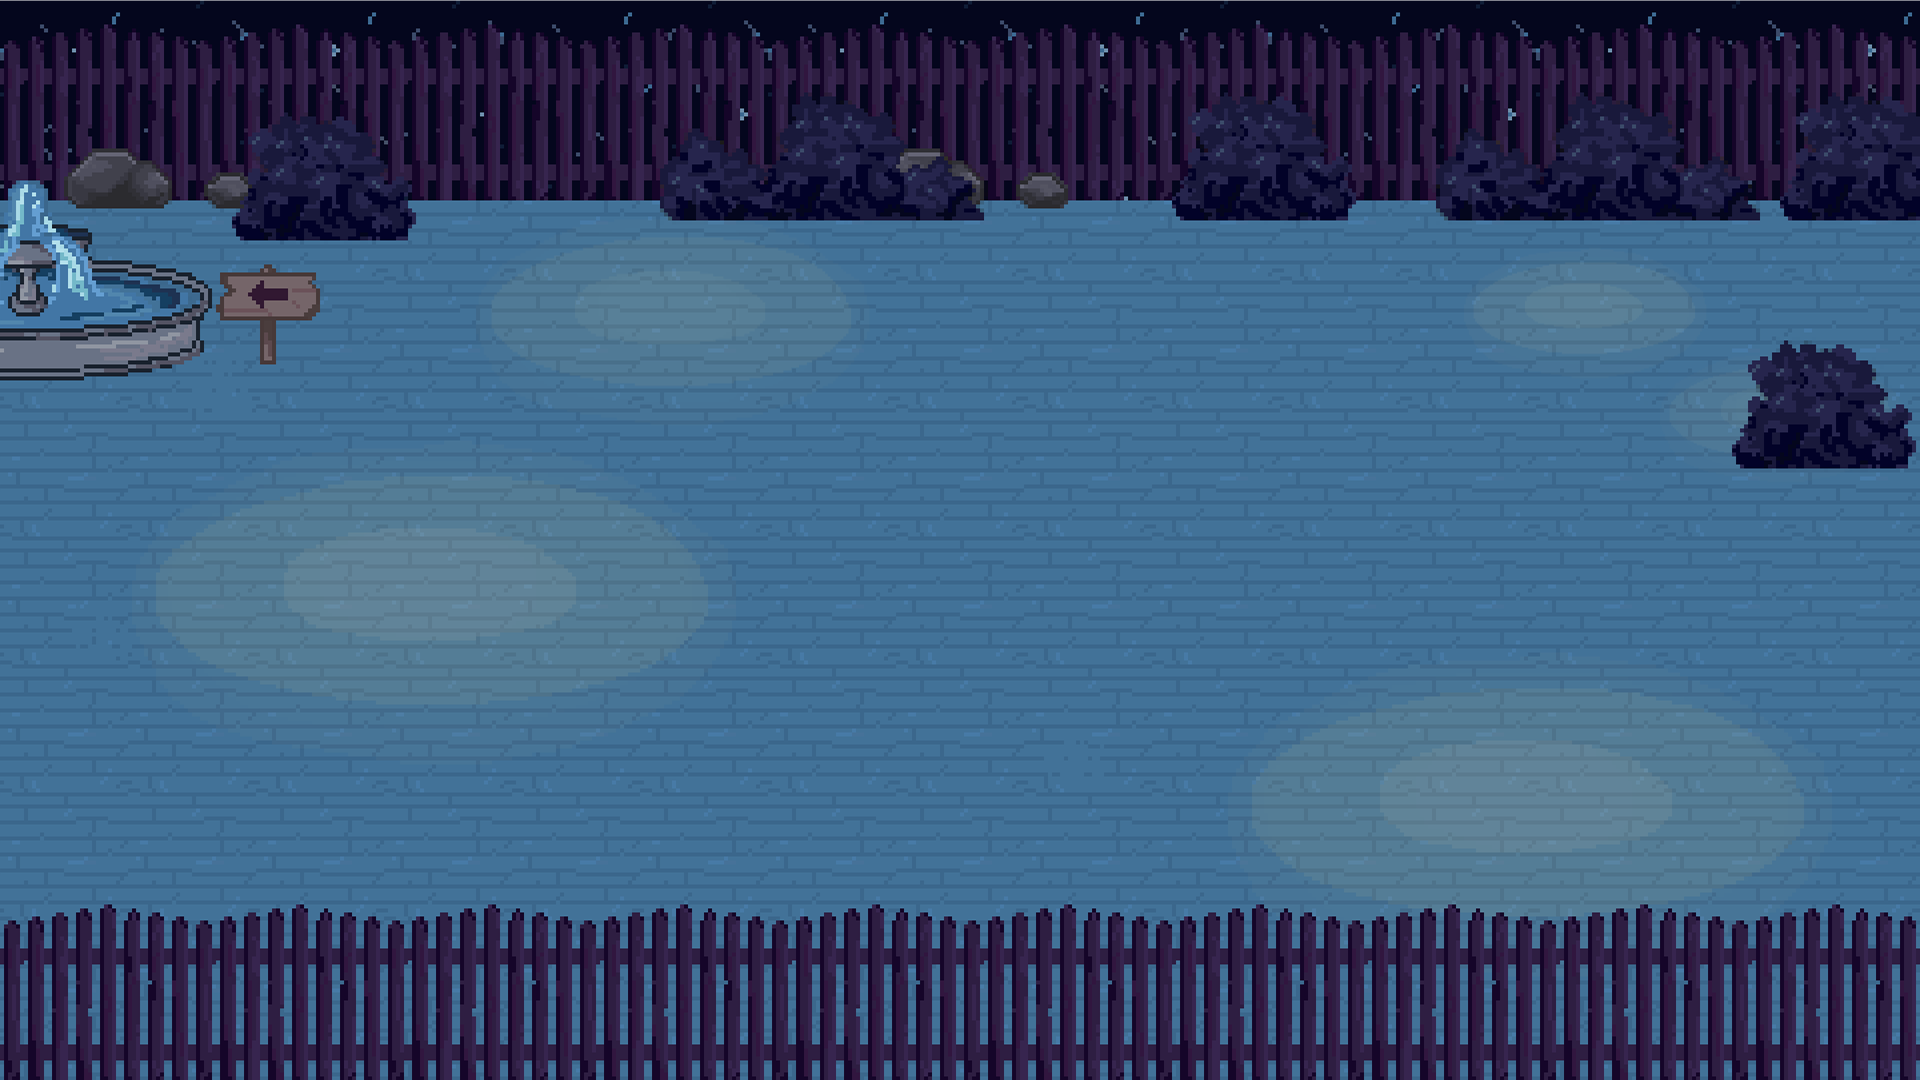
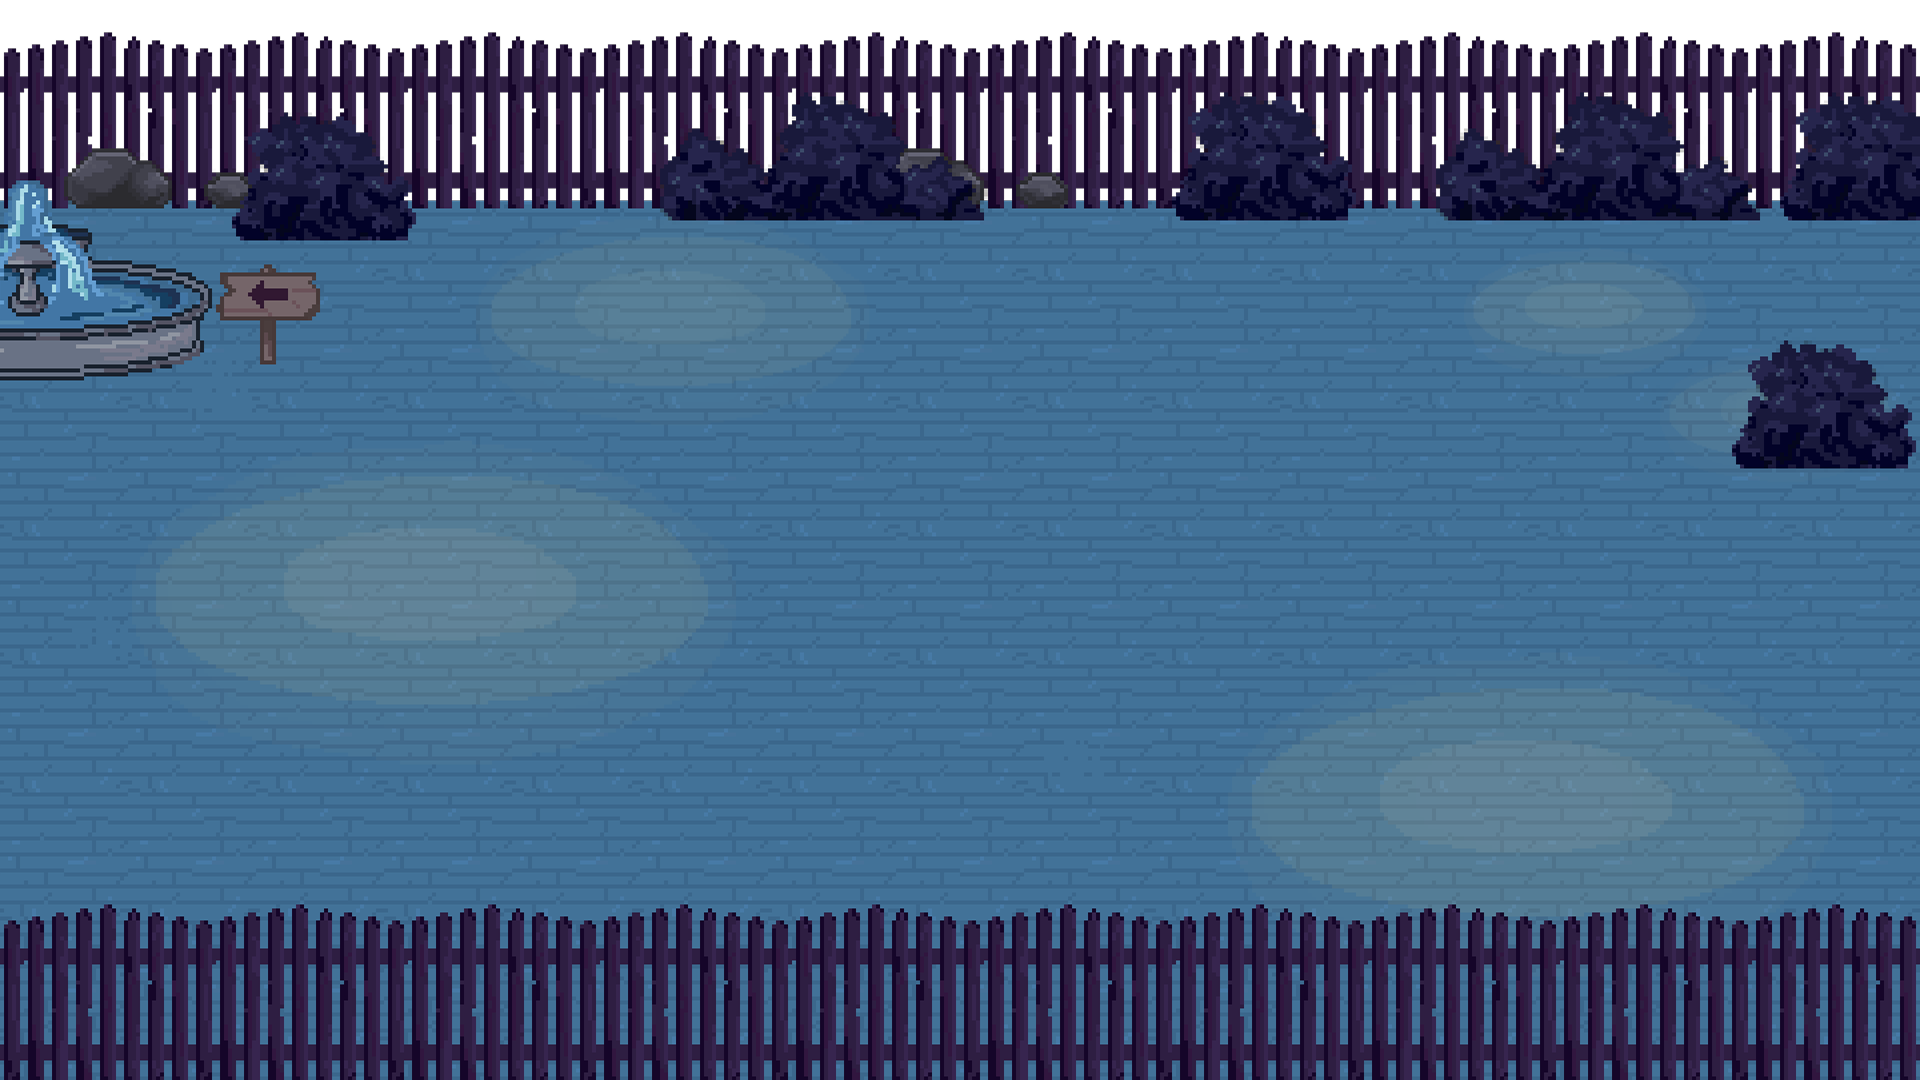
edit: background wind, second page

Changed region(s): [[0.0, 0.0, 1.0, 0.2139]]

diff --git a/usagainsttheodds.client/src/Pages/HomePage2.tsx b/usagainsttheodds.client/src/Pages/HomePage2.tsx
@@ -1,0 +1,52 @@
+import PlayingCard from '../Components/Cards/PlayingCard';
+import Apitest from '../Components/Apitest';
+import styles from "../assets/styles/Homepage.module.css"
+import { useNavigate } from 'react-router-dom';
+import { useOwnOutlet } from '../Hooks/useOwnOutlet'
+import PauseMenu from '../Components/PauseMenu';
+import { useState } from 'react';
+
+const HomePage2 = () => {
+
+    const { tickets, setTickets, relationshipValue, setRelationshipValue, player, setPlayer, isOpen, setIsOpen, play, stop, isMusicMuted, setIsMusicMuted, isSfxMuted, setIsSfxMuted } = useOwnOutlet();
+
+    const navigate = useNavigate();
+
+
+    return (
+
+      <div className={styles.game}>
+
+        <div className={styles.background}/>
+
+          <div className={styles.main_left}>
+            <div
+              className={styles.goRIGHT_btn}
+              onClick={() => navigate("/game")}
+            >
+            <svg xmlns="http://www.w3.org/2000/svg" width="40" height="25" viewBox="0 0 57 60" fill="none">
+            <path d="M47.8285 32.8284C49.3906 31.2663 49.3906 28.7337 47.8285 27.1716L22.3727 1.71573C20.8106 0.153632 18.2779 0.153632 16.7158 1.71573C15.1537 3.27783 15.1537 5.81049 16.7158 7.37258L39.3432 30L16.7158 52.6274C15.1537 54.1895 15.1537 56.7222 16.7158 58.2843C18.2779 59.8464 20.8106 59.8464 22.3727 58.2843L47.8285 32.8284ZM45 30V34H45.0001V30V26H45V30Z" fill="#131522"/>
+            </svg>
+            </div>
+
+            <button className="btn-menu" onClick={() => setIsOpen(true)}/>
+              {isOpen && ( <PauseMenu onClose={() => setIsOpen(false)}/> )}
+
+            <div className={styles.games}>
+              <button className={`${styles.building} ${styles.food}`} onClick={() => navigate("/stall/foodbar")}/>
+              <button className={`${styles.building} ${styles.slots}`} onClick={() => navigate("/stall/slots")}/>
+              <button className={`${styles.building} ${styles.blackjack}`} onClick={() => navigate("/stall/blackjack")}/>
+              <button className={`${styles.building} ${styles.whackamole}`} onClick={() => navigate("/stall/whackamole")}/>
+              <button className={`${styles.building} ${styles.pexeso}`} onClick={() => navigate("/stall/pexeso")}/> {/* nema routu udelanou*/}
+            </div>
+
+            <div className={styles.NPC}>
+              <span className={`${styles.npc_1} ${styles.girlindress}`}></span>
+            </div> 
+
+          </div>
+
+        </div>
+    );
+};
+export default HomePage2;

diff --git a/usagainsttheodds.client/src/main.tsx b/usagainsttheodds.client/src/main.tsx
@@ -5,7 +5,7 @@ import { BrowserRouter, Routes, Route, Link, } from "react-router-dom";
 import NotFoundPage from './Pages/NotFoundPage.tsx';
 import RootLayout from './RootLayout.tsx';
 import MainLayout from './MainLayout.tsx';
-import HomePage from './Pages/HomePage.tsx';
+import HomePage from './Pages/HomePage1.tsx';
 import ErrorPage from './Pages/ErrorPage.tsx';
 import MinigameContainer from './Components/Minigame/MinigameContainer.tsx';
 import FoodBar from './Pages/FoodBar.tsx';
@@ -13,6 +13,8 @@ import StartPage from './Pages/StartPage.tsx'
 import IntroCutscene from './Pages/Cutscene/IntroCutscene.tsx'
 import ItemShop from './Pages/ItemShop.tsx';
 import Wheel from './Pages/Cutscene/Wheel.tsx';
+import HomePage2 from './Pages/HomePage2.tsx';
+import HomePage1 from './Pages/HomePage1.tsx';
 
 createRoot(document.getElementById('root')!).render(
   <StrictMode>
@@ -32,8 +34,7 @@ createRoot(document.getElementById('root')!).render(
           {/* HRA */}
           <Route path="game" element={<MainLayout />}>
             <Route index element={<HomePage />} />
-
-
+            <Route path="left" element={<HomePage2 />} />
           </Route>
 
           {/* STÁNKY */}
@@ -42,11 +43,11 @@ createRoot(document.getElementById('root')!).render(
           <Route path="foodbar" element={<FoodBar />} />
           <Route path="itemshop" element={<ItemShop/> } />
 
-            <Route path="blackjack" element={<MinigameContainer id="blackjack" exitPage="/game" devVersion={true} />} />
+            <Route path="blackjack" element={<MinigameContainer id="blackjack" exitPage="/game/left" devVersion={true} />} />
             <Route path="russianroulette" element={<MinigameContainer id="russianroulette"exitPage="/game" devVersion={true} />} />
             <Route path="testminigame" element={<MinigameContainer id="test" exitPage="/game" devVersion={true} />} />
-            <Route path="whackamole" element={<MinigameContainer id="whackamole" exitPage="/game" devVersion={true} />} />
-            <Route path="slots" element={<MinigameContainer id="slots" exitPage="/game" devVersion={true}  />} />
+            <Route path="whackamole" element={<MinigameContainer id="whackamole" exitPage="/game/left" devVersion={true} />} />
+            <Route path="slots" element={<MinigameContainer id="slots" exitPage="/game/left" devVersion={true}  />} />
             {/* <Route path="wheel" element={<Wheel />} /> */}
 
           </Route>

diff --git a/usagainsttheodds.client/src/Pages/HomePage1.tsx b/usagainsttheodds.client/src/Pages/HomePage1.tsx
@@ -6,7 +6,7 @@ import { useOwnOutlet } from '../Hooks/useOwnOutlet'
 import PauseMenu from '../Components/PauseMenu';
 import { useState } from 'react';
 
-const HomePage = () => {
+const HomePage1 = () => {
 
     const { tickets, setTickets, relationshipValue, setRelationshipValue, player, setPlayer, isOpen, setIsOpen, play, stop, isMusicMuted, setIsMusicMuted, isSfxMuted, setIsSfxMuted } = useOwnOutlet();
 
@@ -20,11 +20,13 @@ const HomePage = () => {
 
       <div className={styles.game}>
 
+        <div className={styles.background}/>
+
         { area === "right" && (
         <div className={styles.main_right}>
           <div
             className={styles.goLEFT_btn}
-            onClick={() => setArea("left")}
+            onClick={() => navigate("/game/left")}
           >
             <svg xmlns="http://www.w3.org/2000/svg" width="40" height="25" viewBox="0 0 57 60" fill="none">
             <path d="M47.8285 32.8284C49.3906 31.2663 49.3906 28.7337 47.8285 27.1716L22.3727 1.71573C20.8106 0.153632 18.2779 0.153632 16.7158 1.71573C15.1537 3.27783 15.1537 5.81049 16.7158 7.37258L39.3432 30L16.7158 52.6274C15.1537 54.1895 15.1537 56.7222 16.7158 58.2843C18.2779 59.8464 20.8106 59.8464 22.3727 58.2843L47.8285 32.8284ZM45 30V34H45.0001V30V26H45V30Z" fill="#131522"/>
@@ -98,7 +100,7 @@ const HomePage = () => {
           </div>
           */}
 
-      </div>
+        </div>
     );
 };
-export default HomePage;
+export default HomePage1;

diff --git a/usagainsttheodds.client/src/assets/styles/Homepage.module.css b/usagainsttheodds.client/src/assets/styles/Homepage.module.css
@@ -1,3 +1,29 @@
+.game{
+    overflow: hidden;
+    position: relative;
+}
+
+.background {
+    position: absolute;
+    z-index: -1;
+    top: 0;
+    right:0;
+    width: 200vw;
+    height: 40vh;
+    background-image: url("../images/Main/Background-night.png");
+    background-position: center top;
+    background-repeat: no-repeat;
+    background-size: cover;
+    animation: wind 10s ease-in-out infinite;
+}
+
+@keyframes wind {
+    0%   { transform: translateX(0); }
+    50%  { transform: translateX(1.7vw); }
+    100% { transform: translateX(0); }
+}
+
+
 .main_right {
     background-image: url("../images/Main/Background-first.png");
     height: 100vh;
